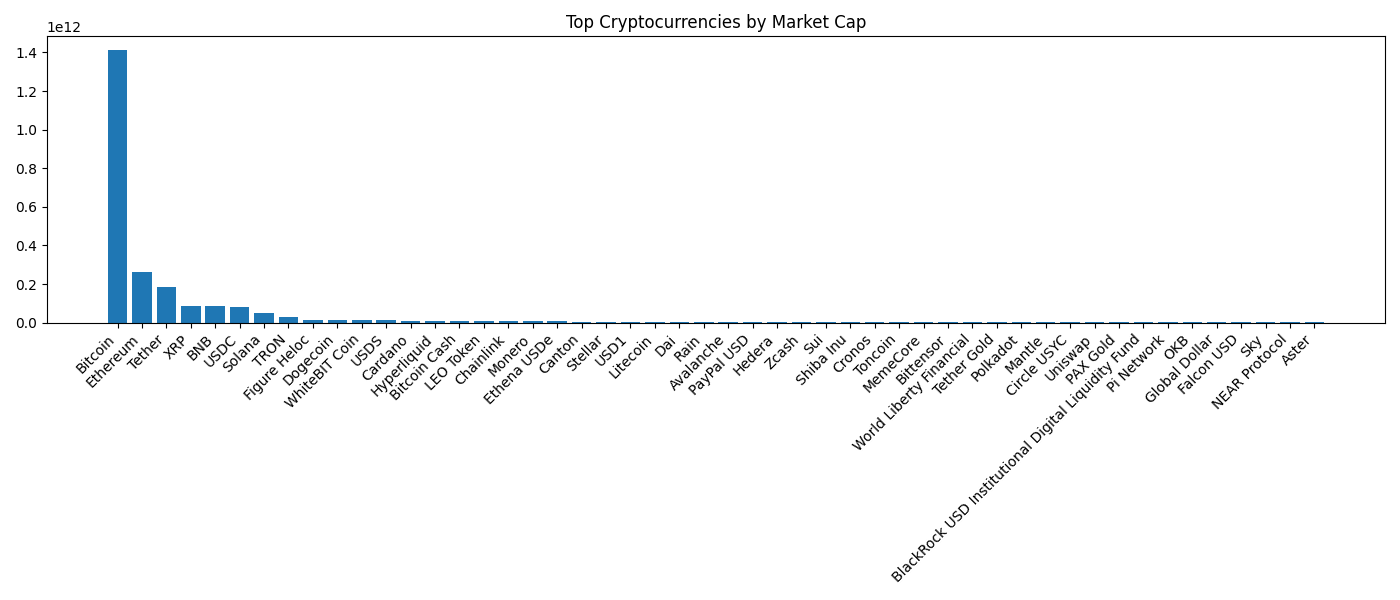
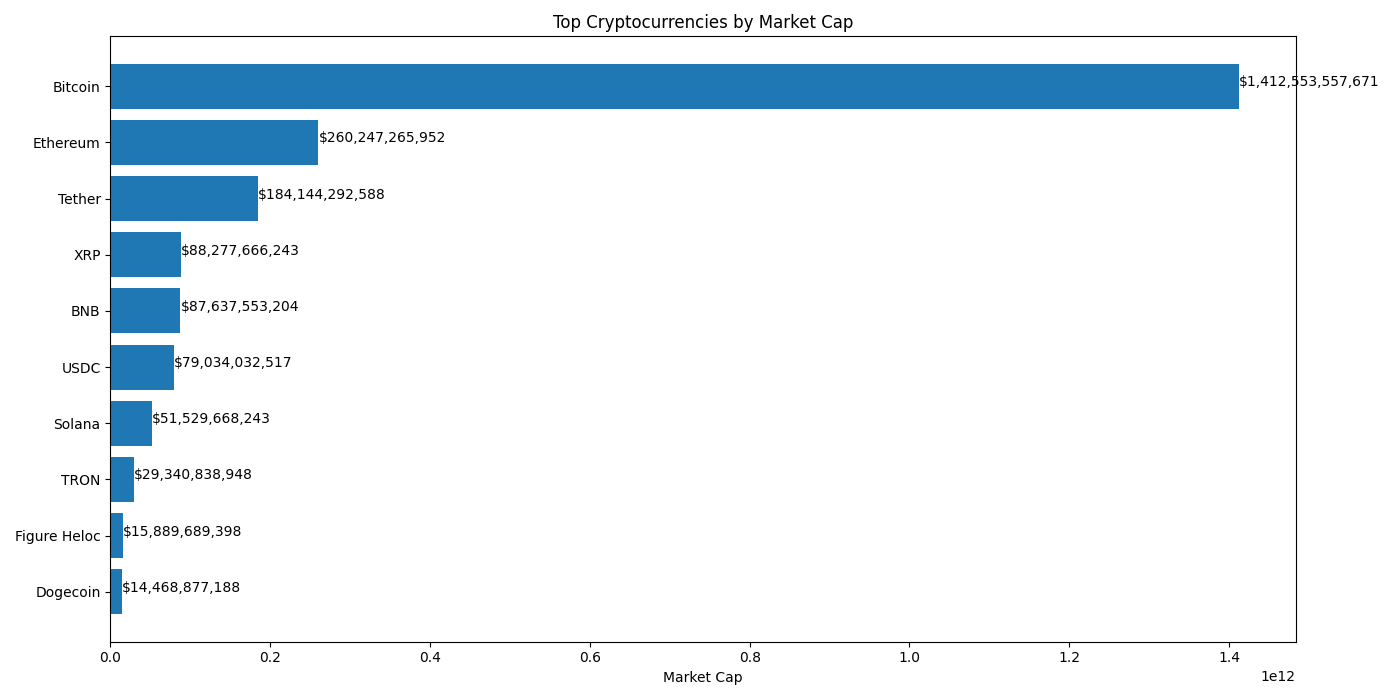
add new feature

diff --git a/visualization/plot_data.py b/visualization/plot_data.py
@@ -1,11 +1,52 @@
 import matplotlib.pyplot as plt
 
-def plot_market_cap(df):
-    plt.figure(figsize=(14,6))
-    plt.bar(df["name"], df["market_cap"])
-    plt.xticks(rotation=45, ha="right")  # rotate labels
-    plt.title("Top Cryptocurrencies by Market Cap")
 
+def plot_market_cap(df):
+    df = df.sort_values(by="market_cap", ascending=True)
+
+    plt.figure(figsize=(14,7))
+    plt.barh(df["name"], df["market_cap"])
+
+    for index, value in enumerate(df["market_cap"]):
+        plt.text(value, index, f"${value:,.0f}")
+
+    plt.title("Top Cryptocurrencies by Market Cap")
+    plt.xlabel("Market Cap")
     plt.tight_layout()
+
     plt.savefig("charts/market_cap.png")
+    plt.show()
+
+
+def plot_top_gainers(df):
+    df = df.sort_values(by="price_change_percentage_24h", ascending=True)
+
+    plt.figure(figsize=(14,7))
+    plt.barh(df["name"], df["price_change_percentage_24h"])
+
+    for index, value in enumerate(df["price_change_percentage_24h"]):
+        plt.text(value, index, f"{value:.2f}%")
+
+    plt.title("Top Gainers (24h)")
+    plt.xlabel("Price Change %")
+    plt.tight_layout()
+
+    plt.savefig("charts/top_gainers.png")
+    plt.show()
+
+
+def plot_volume(df):
+    df = df.sort_values(by="total_volume", ascending=True)
+
+    plt.figure(figsize=(14,7))
+    plt.barh(df["name"], df["total_volume"])
+
+    for index, value in enumerate(df["total_volume"]):
+        plt.text(value, index, f"${value:,.0f}")
+
+    plt.title("Trading Volume")
+    plt.xlabel("Volume")
+    plt.tight_layout()
+
+    plt.savefig("charts/volume.png")
     plt.show()

diff --git a/main.py b/main.py
@@ -1,28 +1,37 @@
 from api.fetch_data import fetch_crypto_data
-from data.analyse_data import clean_data ,top_gainers,top_market_cap
-from visualization.plot_data import plot_market_cap
+from data.analyse_data import clean_data, top_gainers, top_market_cap
+from visualization.plot_data import plot_market_cap, plot_top_gainers, plot_volume
+from analysis.insights import generate_insights
+
 
 def main():
+    print("Fetching API Data...")
+
     df = fetch_crypto_data()
+
     if df is None:
         return
-    
+
     df = clean_data(df)
-    print(df)
-    print("---cleaning")
-    print("\n Topp gainers")
-    print(top_gainers(df))
-    
-    print("\n Top market cap coins")
+
+    print("\nTop Gainers")
+    gainers = top_gainers(df)
+    print(gainers)
+
+    print("\nTop Market Cap Coins")
     top_coins = top_market_cap(df)
     print(top_coins)
-    
+
     df.to_csv("data/crypto_data.csv", index=False)
-    
-    # plot
-    plot_market_cap(df)
-    
+
+    # Generate charts
+    plot_market_cap(top_coins)
+    plot_top_gainers(gainers)
+    plot_volume(top_coins)
+
+    # Generate insights
+    generate_insights(df)
+
+
 if __name__ == "__main__":
-    main()    
-    
-    
+    main()

diff --git a/analysis/insights.py b/analysis/insights.py
@@ -1,0 +1,15 @@
+def generate_insights(df):
+    top_coin = df.loc[df["market_cap"].idxmax()]
+    top_gainer = df.loc[df["price_change_percentage_24h"].idxmax()]
+    highest_volume = df.loc[df["total_volume"].idxmax()]
+
+    print("\n----- Market Insights -----")
+
+    print("\nTop Coin by Market Cap:")
+    print(top_coin["name"], top_coin["market_cap"])
+
+    print("\nTop Gainer Today:")
+    print(top_gainer["name"], f"{top_gainer['price_change_percentage_24h']:.2f}%")
+
+    print("\nHighest Trading Volume:")
+    print(highest_volume["name"], highest_volume["total_volume"])
